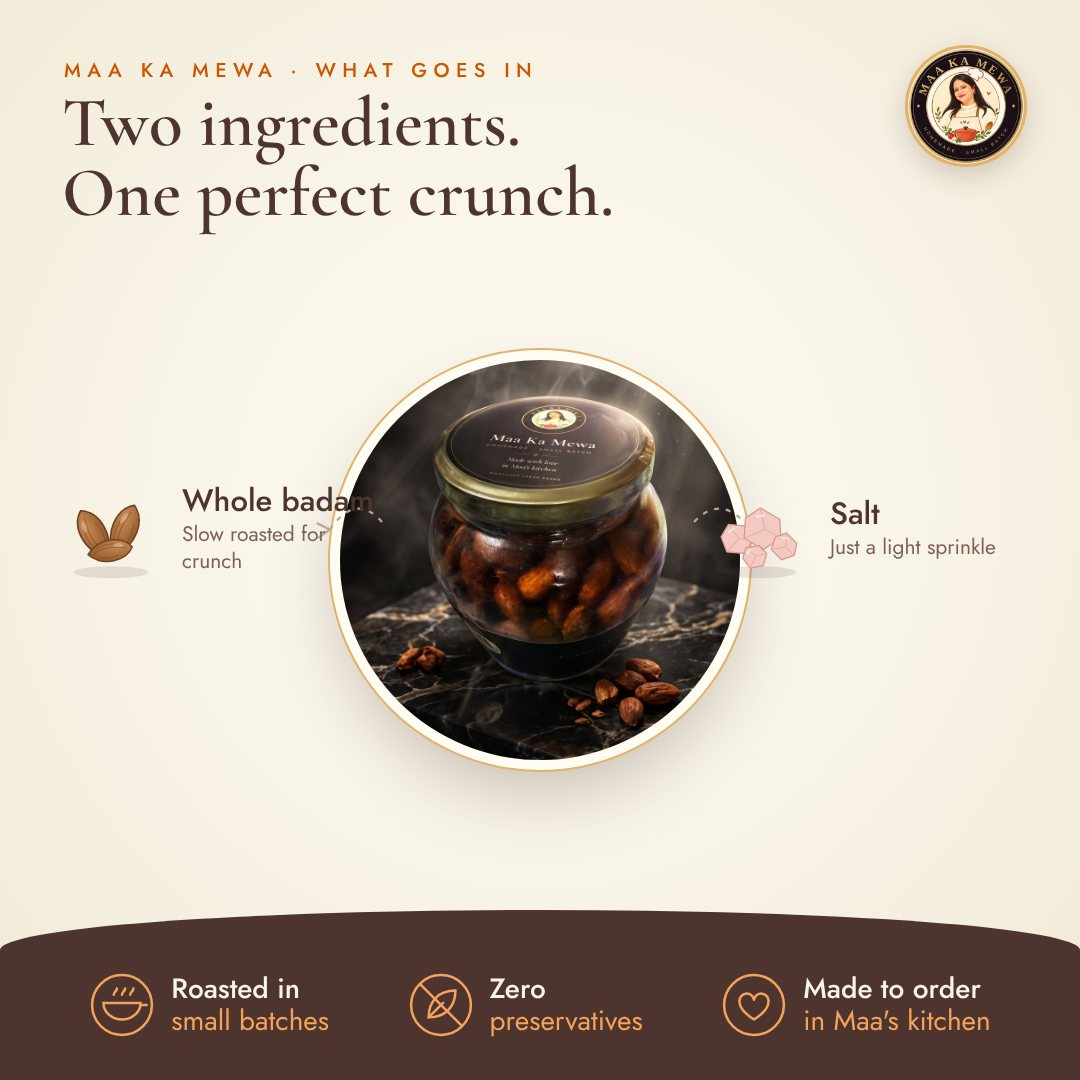
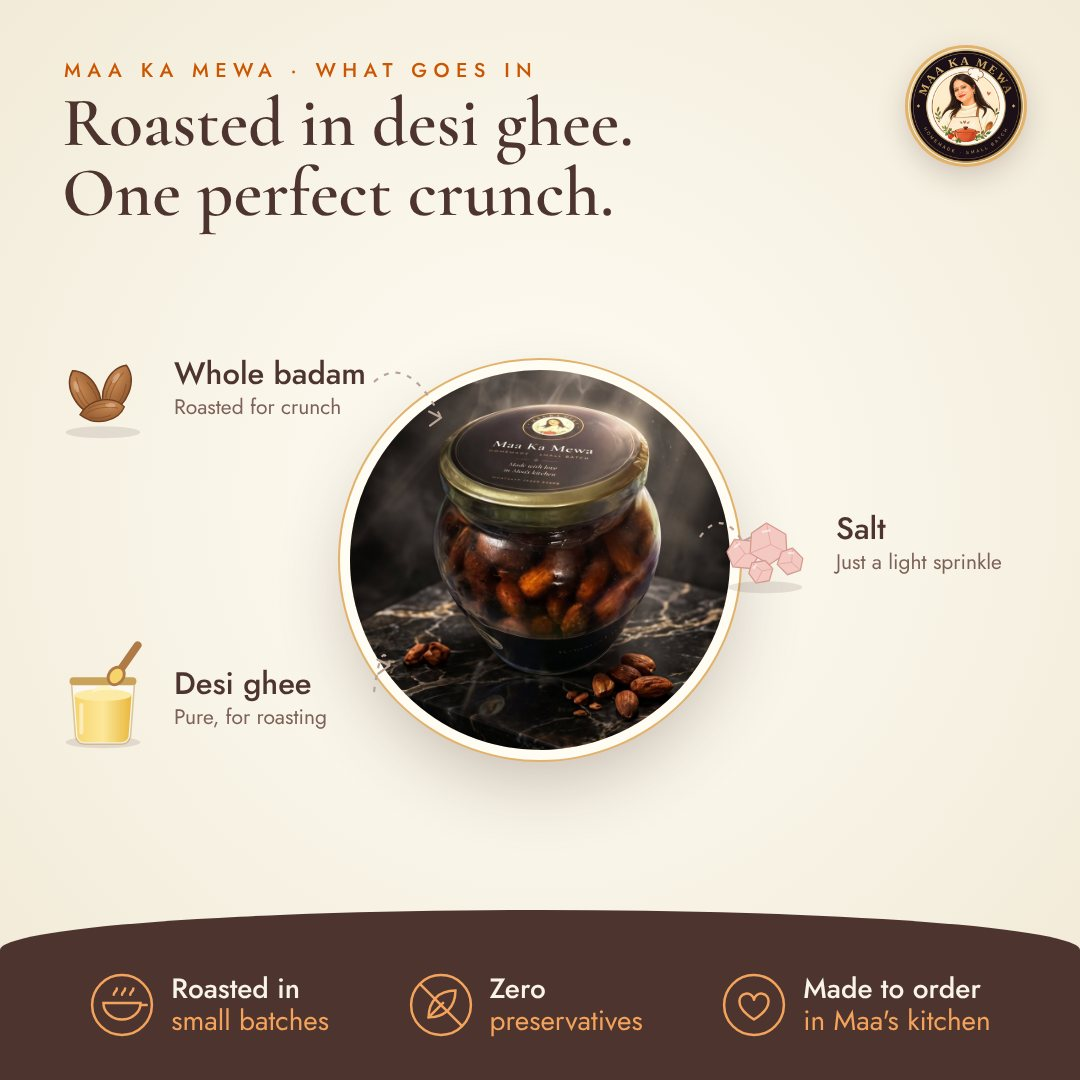
Product pages: kaju and badam roasted in desi ghee, masala spices listed
Claude-Session: https://claude.ai/code/session_01KiKguxLucHeEcZzeLvUxjr

diff --git a/index.html b/index.html
@@ -977,12 +977,12 @@ if (!calm && matchMedia("(hover: hover) and (pointer: fine)").matches) {
 
 /* ---- product detail sheet: tap a product to see photos, ingredients and packs ---- */
 const INFO = {
-  "kaju-salted": { gal: ["lx-kaju-tube-full", "info/kaju-salted-ingredients", "info/nuts-pack"], long: "Whole kaju slow roasted in small batches until they turn golden and crisp, finished with just a light sprinkle of salt. Simple, crunchy and hard to stop at one.", ing: "Cashews (kaju), salt.", badges: ["Roasted in small batches", "No preservatives", "Made to order"], keep: "Stays crunchy for about 6–8 weeks. Keep the lid tightly closed, away from heat and moisture.", allergen: "Contains tree nuts (cashew)." },
-  "kaju-mirch": { gal: ["lx-kaju-spicy-full", "info/kaju-mirch-ingredients", "info/nuts-pack"], long: "Our roasted kaju tossed with freshly crushed kali mirch and rock salt. Bold and peppery, with a gentle kick that builds.", ing: "Cashews (kaju), crushed black pepper (kali mirch), rock salt.", badges: ["Roasted in small batches", "No preservatives", "Made to order"], keep: "Stays crunchy for about 6–8 weeks. Keep the lid tightly closed, away from heat and moisture.", allergen: "Contains tree nuts (cashew)." },
-  "kaju-masala": { gal: ["lx-kaju-gold-full", "info/kaju-masala-ingredients", "info/nuts-pack"], long: "Chatpata roasted kaju coated in Maa's signature house masala. Tangy, spicy and full of flavour, our most-loved snack.", ing: "Cashews (kaju), Maa's house spice blend.", badges: ["Roasted in small batches", "No preservatives", "Made to order"], keep: "Stays crunchy for about 6–8 weeks. Keep the lid tightly closed, away from heat and moisture.", allergen: "Contains tree nuts (cashew)." },
-  "badam-salted": { gal: ["lx-badam-jar-full", "info/badam-salted-ingredients", "info/nuts-pack"], long: "Whole badam slow roasted for a deep, satisfying crunch, with a light sprinkle of salt.", ing: "Almonds (badam), salt.", badges: ["Roasted in small batches", "No preservatives", "Made to order"], keep: "Stays crunchy for about 6–8 weeks. Keep the lid tightly closed, away from heat and moisture.", allergen: "Contains tree nuts (almond)." },
-  "badam-mirch": { gal: ["lx-duo-full", "info/badam-mirch-ingredients", "info/nuts-pack"], long: "Roasted badam tossed with freshly crushed kali mirch and rock salt. Bold and peppery, with a gentle kick.", ing: "Almonds (badam), crushed black pepper (kali mirch), rock salt.", badges: ["Roasted in small batches", "No preservatives", "Made to order"], keep: "Stays crunchy for about 6–8 weeks. Keep the lid tightly closed, away from heat and moisture.", allergen: "Contains tree nuts (almond)." },
-  "badam-masala": { gal: ["lx-badam-tube-full", "info/badam-masala-ingredients", "info/nuts-pack"], long: "Chatpata roasted badam coated in Maa's signature house masala. Tangy, spicy and full of flavour.", ing: "Almonds (badam), Maa's house spice blend.", badges: ["Roasted in small batches", "No preservatives", "Made to order"], keep: "Stays crunchy for about 6–8 weeks. Keep the lid tightly closed, away from heat and moisture.", allergen: "Contains tree nuts (almond)." },
+  "kaju-salted": { gal: ["lx-kaju-tube-full", "info/kaju-salted-ingredients", "info/nuts-pack"], long: "Whole kaju slow roasted in pure desi ghee in small batches until they turn golden and crisp, finished with just a light sprinkle of salt. Simple, crunchy and hard to stop at one.", ing: "Cashews (kaju), pure desi ghee, salt.", badges: ["Roasted in small batches", "No preservatives", "Made to order"], keep: "Stays crunchy for about 6–8 weeks. Keep the lid tightly closed, away from heat and moisture.", allergen: "Contains tree nuts (cashew) and milk (ghee)." },
+  "kaju-mirch": { gal: ["lx-kaju-spicy-full", "info/kaju-mirch-ingredients", "info/nuts-pack"], long: "Our roasted kaju tossed with freshly crushed kali mirch and rock salt. Bold and peppery, with a gentle kick that builds.", ing: "Cashews (kaju), pure desi ghee, crushed black pepper (kali mirch), rock salt.", badges: ["Roasted in small batches", "No preservatives", "Made to order"], keep: "Stays crunchy for about 6–8 weeks. Keep the lid tightly closed, away from heat and moisture.", allergen: "Contains tree nuts (cashew) and milk (ghee)." },
+  "kaju-masala": { gal: ["lx-kaju-gold-full", "info/kaju-masala-ingredients", "info/nuts-pack"], long: "Chatpata roasted kaju coated in Maa's signature house masala. Tangy, spicy and full of flavour, our most-loved snack.", ing: "Cashews (kaju), pure desi ghee, spices (chaat masala, red chilli, black salt, amchur, sendha namak).", badges: ["Roasted in small batches", "No preservatives", "Made to order"], keep: "Stays crunchy for about 6–8 weeks. Keep the lid tightly closed, away from heat and moisture.", allergen: "Contains tree nuts (cashew) and milk (ghee)." },
+  "badam-salted": { gal: ["lx-badam-jar-full", "info/badam-salted-ingredients", "info/nuts-pack"], long: "Whole badam slow roasted in pure desi ghee for a deep, satisfying crunch, with a light sprinkle of salt.", ing: "Almonds (badam), pure desi ghee, salt.", badges: ["Roasted in small batches", "No preservatives", "Made to order"], keep: "Stays crunchy for about 6–8 weeks. Keep the lid tightly closed, away from heat and moisture.", allergen: "Contains tree nuts (almond) and milk (ghee)." },
+  "badam-mirch": { gal: ["lx-duo-full", "info/badam-mirch-ingredients", "info/nuts-pack"], long: "Roasted badam tossed with freshly crushed kali mirch and rock salt. Bold and peppery, with a gentle kick.", ing: "Almonds (badam), pure desi ghee, crushed black pepper (kali mirch), rock salt.", badges: ["Roasted in small batches", "No preservatives", "Made to order"], keep: "Stays crunchy for about 6–8 weeks. Keep the lid tightly closed, away from heat and moisture.", allergen: "Contains tree nuts (almond) and milk (ghee)." },
+  "badam-masala": { gal: ["lx-badam-tube-full", "info/badam-masala-ingredients", "info/nuts-pack"], long: "Chatpata roasted badam coated in Maa's signature house masala. Tangy, spicy and full of flavour.", ing: "Almonds (badam), pure desi ghee, spices (chaat masala, red chilli, black salt, amchur, sendha namak).", badges: ["Roasted in small batches", "No preservatives", "Made to order"], keep: "Stays crunchy for about 6–8 weeks. Keep the lid tightly closed, away from heat and moisture.", allergen: "Contains tree nuts (almond) and milk (ghee)." },
   "ladoo-dryfruit": { gal: ["lx-ladoo-full", "info/ladoo-dryfruit-ingredients", "info/ladoo-pack", "info/ladoo-anjeer-ingredients", "info/ladoo-anjeer-pack"], long: "Rolled by hand in pure desi ghee and packed with dry fruits. Choose regular, no added sugar with stevia, or our anjeer & dates ladoo, sweetened only with dates and sold by the piece (₹35 each) in boxes of 6 or 12.", ing: "<b>Regular and stevia:</b> besan, pure desi ghee, sugar (or stevia in the no added sugar ladoo), suji, kaju, badam, kishmish, makhane, magaz.<br><b>Anjeer & dates:</b> dates, mixed seeds, badam, akhrot, kaju, kishmish, pista, white til.", badges: ["Pure desi ghee", "No preservatives", "Made to order"], keep: "Best within 3–4 weeks. Store in an airtight box in a cool, dry place; in summer, keep in the fridge.", allergen: "Contains tree nuts. Regular and stevia ladoo contain wheat (suji)." },
   "panjeeri": { gal: ["lx-panjeeri-full", "info/panjeeri-ingredients", "info/panjeeri-pack"], long: "Maa's winter panjeeri, slow roasted in generous desi ghee and loaded with dry fruits. Have a spoonful with warm milk on cold mornings. Sweetened with sugar or desi khand, your choice.", ing: "Besan, pure desi ghee, suji, sugar or desi khand, badam, kaju, kishmish, makhane, magaz.", badges: ["Pure desi ghee", "No preservatives", "Made to order"], keep: "Best within 3–4 weeks. Store in an airtight box in a cool, dry place.", allergen: "Contains tree nuts and wheat (suji)." },
   "gift-box": { gal: ["lx-classic-full", "info/gift-pack", "info/gift-box-ingredients", "lx-petite2-full", "lx-duo-full"], long: "Our hand-roasted dry fruits in festive keepsake boxes: the Petite with 2 jars, the Petite 500 g with two big jars, or the Classic with 4 jars. Want ladoo, panjeeri or your own mix? Tell us on WhatsApp and we will put a box together for you. Bulk and corporate orders welcome.", ing: "Depending on the box: mix masala kaju, mix masala badam, kishmish, mixed seeds.", badges: ["Gift-ready", "Bulk & corporate orders", "Made to order"], keep: "Roasted kaju and badam stay crunchy for about 6–8 weeks in their jars.", allergen: "Contains tree nuts." }
